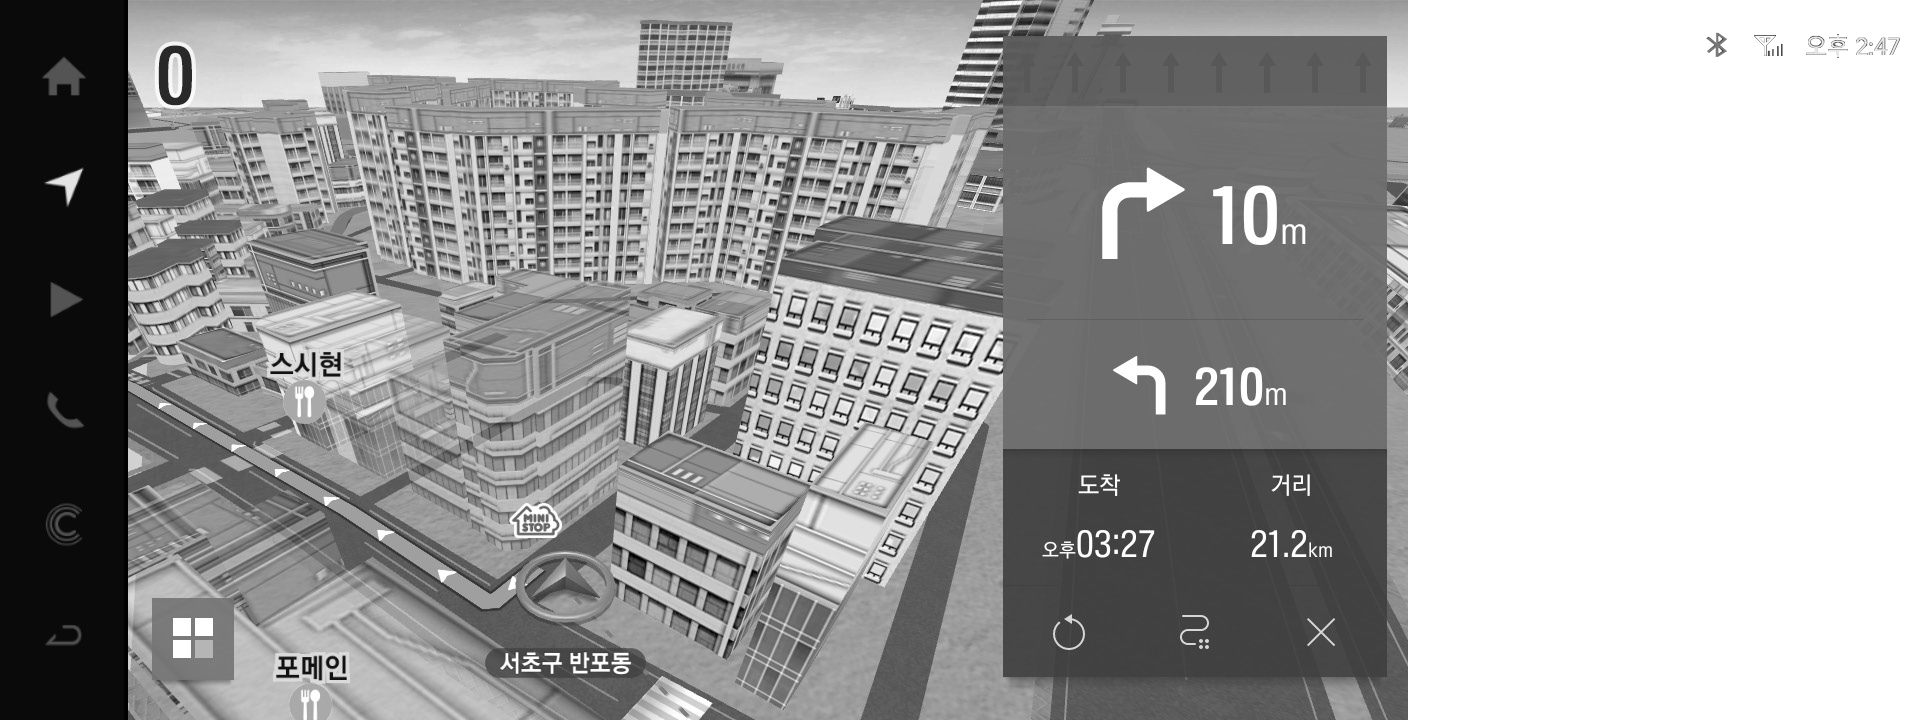
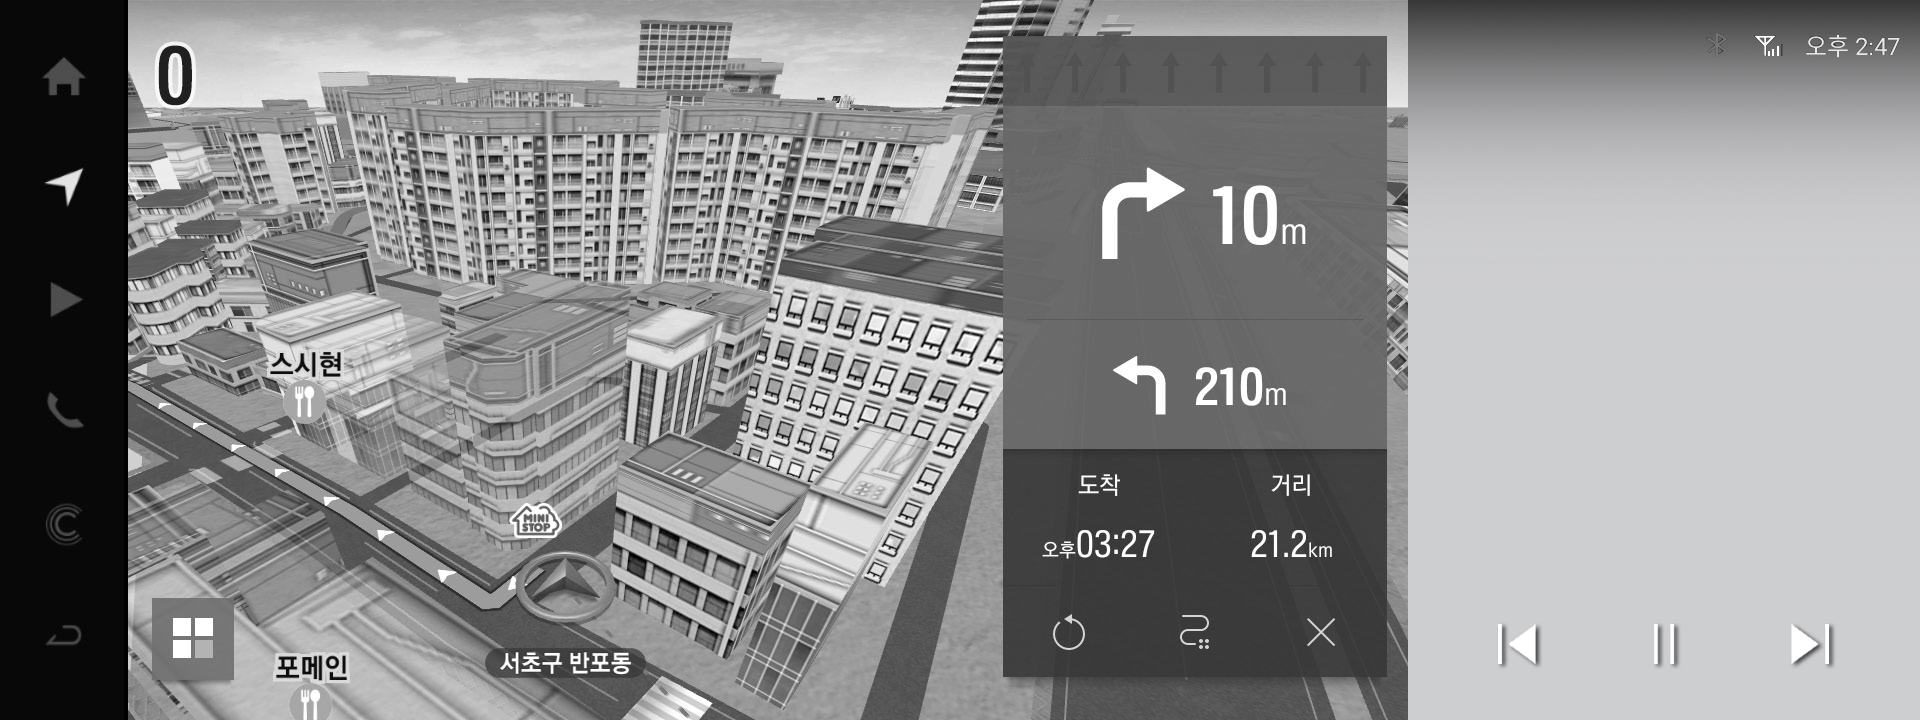
틀 업데이트 및 UI 수정

Changed region(s): [[0.7188, 0.0, 1.0, 1.0]]

diff --git a/templates/song.html b/templates/song.html
@@ -1,40 +1,81 @@
 <!doctype html>
 <html>
+    <link href="https://cdn.jsdelivr.net/gh/sunn-us/SUIT/fonts/variable/woff2/SUIT-Variable.css" rel="stylesheet">
     <style>
-        .back {animation: rotate_image 120s linear infinite;transform-origin: 50% 50%;}
-
+        body {font-family: 'SUIT Variable', sans-serif;}
+        .back {
+            animation: rotate_image 60s linear infinite;
+            transform-origin: 50% 50%;
+            z-index: 1;
+            position:absolute;
+            height: 2048px;
+            filter: blur(80px) contrast(1.5);
+            left: -1024px;
+            top: -768px;
+        
+        }
+            
         @keyframes rotate_image{
         100% {
                 transform: rotate(360deg);
             }
+            
         }
 
         .text_name{
-            font-family: 'Noto Sans KR', sans-serif;
-            font-weight: 700;
-            font-size: 33.5pt;
+            font-family: 'SUIT Variable', sans-serif;
+            font-weight: 800;
+            font-size: 32pt;
             color: white;
             text-align: center;
+            z-index: 3;
+            display: flex;
+            position:absolute;
+            margin: 0px;
+            top: 475px;
+            justify-content: center;
+            width: 512px;
         }
 
-        .text_title{
-            font-family: 'Noto Sans KR', sans-serif;
-            font-weight: 300;
-            font-size: 28pt;
+        .text_artist{
+            font-family: 'SUIT Variable', sans-serif;
+            font-weight: 200;
+            font-size: 22pt;
             color: white;
             text-align: center;
+            z-index: 3;
+            position:absolute;
+            margin: 0px;
+            top: 540px;
+            display: flex;
+            justify-content: center;
+            width: 512px;
+        }
+        
+        .src_type{
+            font-family: 'SUIT Variable', sans-serif;
+            font-weight: 200;
+            font-size: 22pt;
+            color: white;
+            z-index: 3;
+            position:fixed;
+            margin: 80px 0px 0px 0px;
+            display: flex;
+            justify-content: center;
+            width: 512px;
         }
     </style>
   <head>
   </head>
   <body>
     <div style="height: 720px; width: 1920px; margin: 50px; position: absolute;">
-        <img style="z-index: 10; position: absolute;" src="{{ url_for('static',filename='back.png') }}" alt="">
+        <img style="z-index: 2; position: absolute;" src="{{ url_for('static',filename='back.png') }}" alt="">
             <div style="height: 720px; width: 512px; position: absolute; top: 0px; right: 0px;">
-                <img class="back" style="z-index: 1; position:absolute; height: 2048px; filter: blur(137px); left: -1024px; top: -768px;" src="{{albumArt}}" alt="">
+                <img class="back"src="{{albumArt}}" alt="">
+                <h4 class="src_type">블루투스 뮤직</h4>
                 <img style="z-index: 5; position:absolute; height: 312px; top: 140px; left: 100px" src="{{albumArt}}" alt="">
-                <h3 class="text_name" style="z-index: 3; position:absolute;margin: 0px;font-size: 33.5pt;top: 480px;text-align: center;">{{songName}}</h3>
-                <h4 class="text_title" style="z-index: 3; position:absolute;margin: 0px;font-size: 28pt;top: 535px;text-align:center;">{{artist}}</h4>
+                <h3 class="text_name">{{songName}}</h3>
+                <h4 class="text_artist">{{artist}}</h4>
             </div>
 
     </div>
